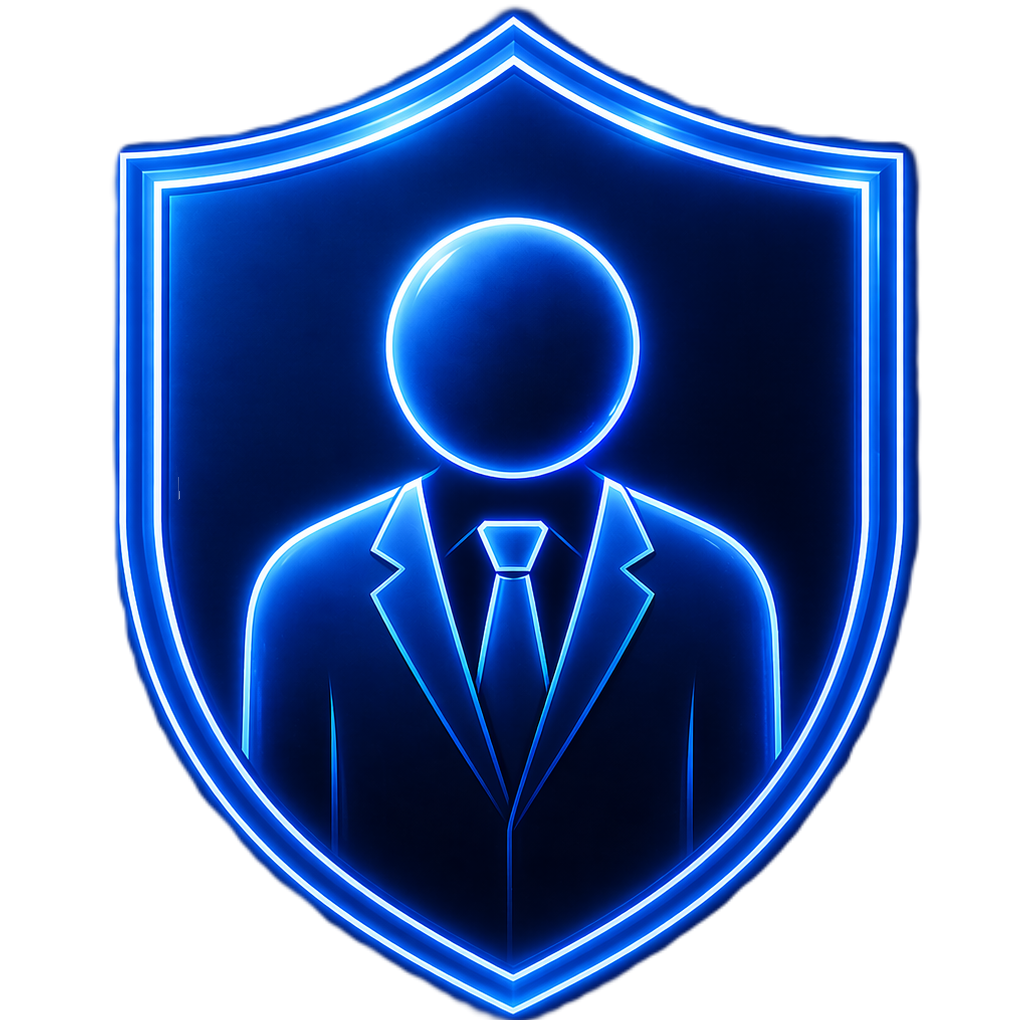
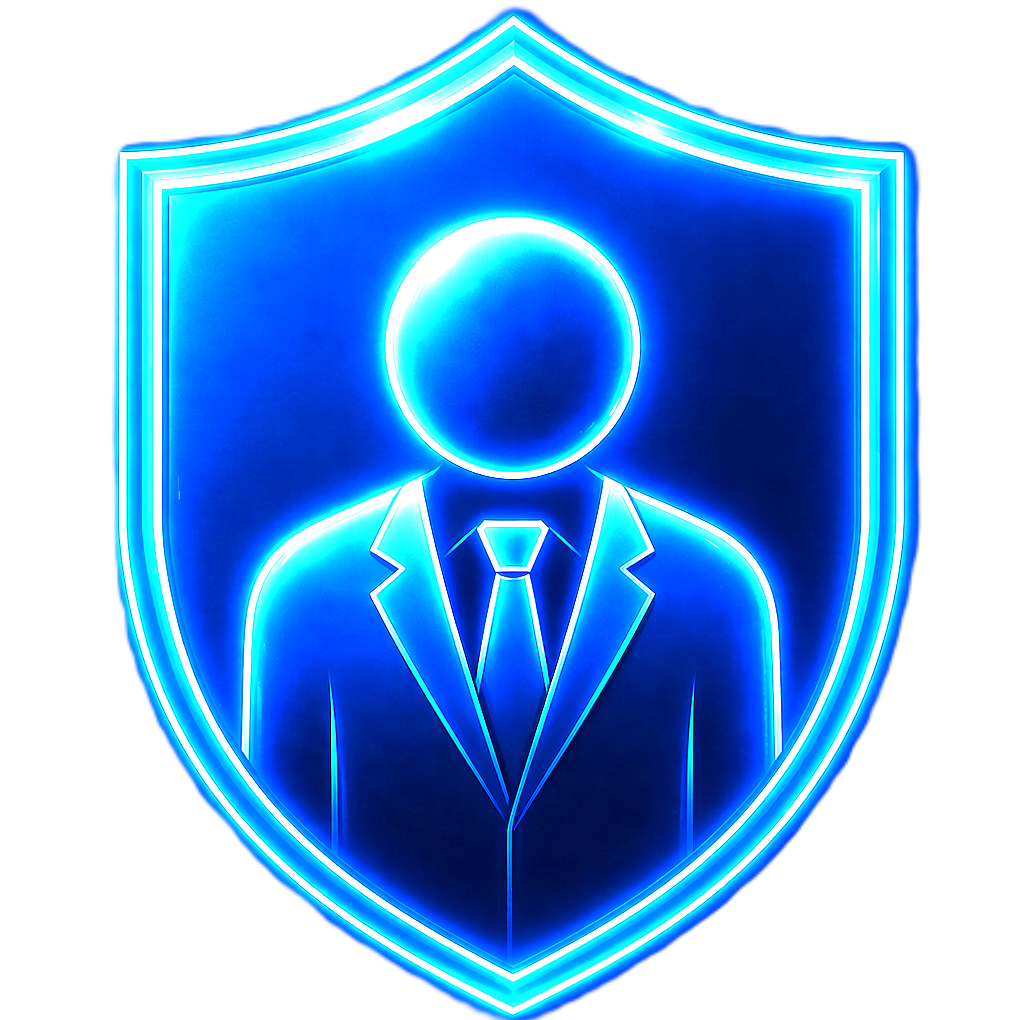
d

diff --git a/src/frontend/src/styles/common.css b/src/frontend/src/styles/common.css
@@ -307,7 +307,7 @@ a:hover {
 }
 
 .admin-comment-author {
-    color: gold !important;
+    color: #a9c4ff !important;
     font-weight: bold !important;
     text-shadow:
     -0.5px -0.5px 0 black,
